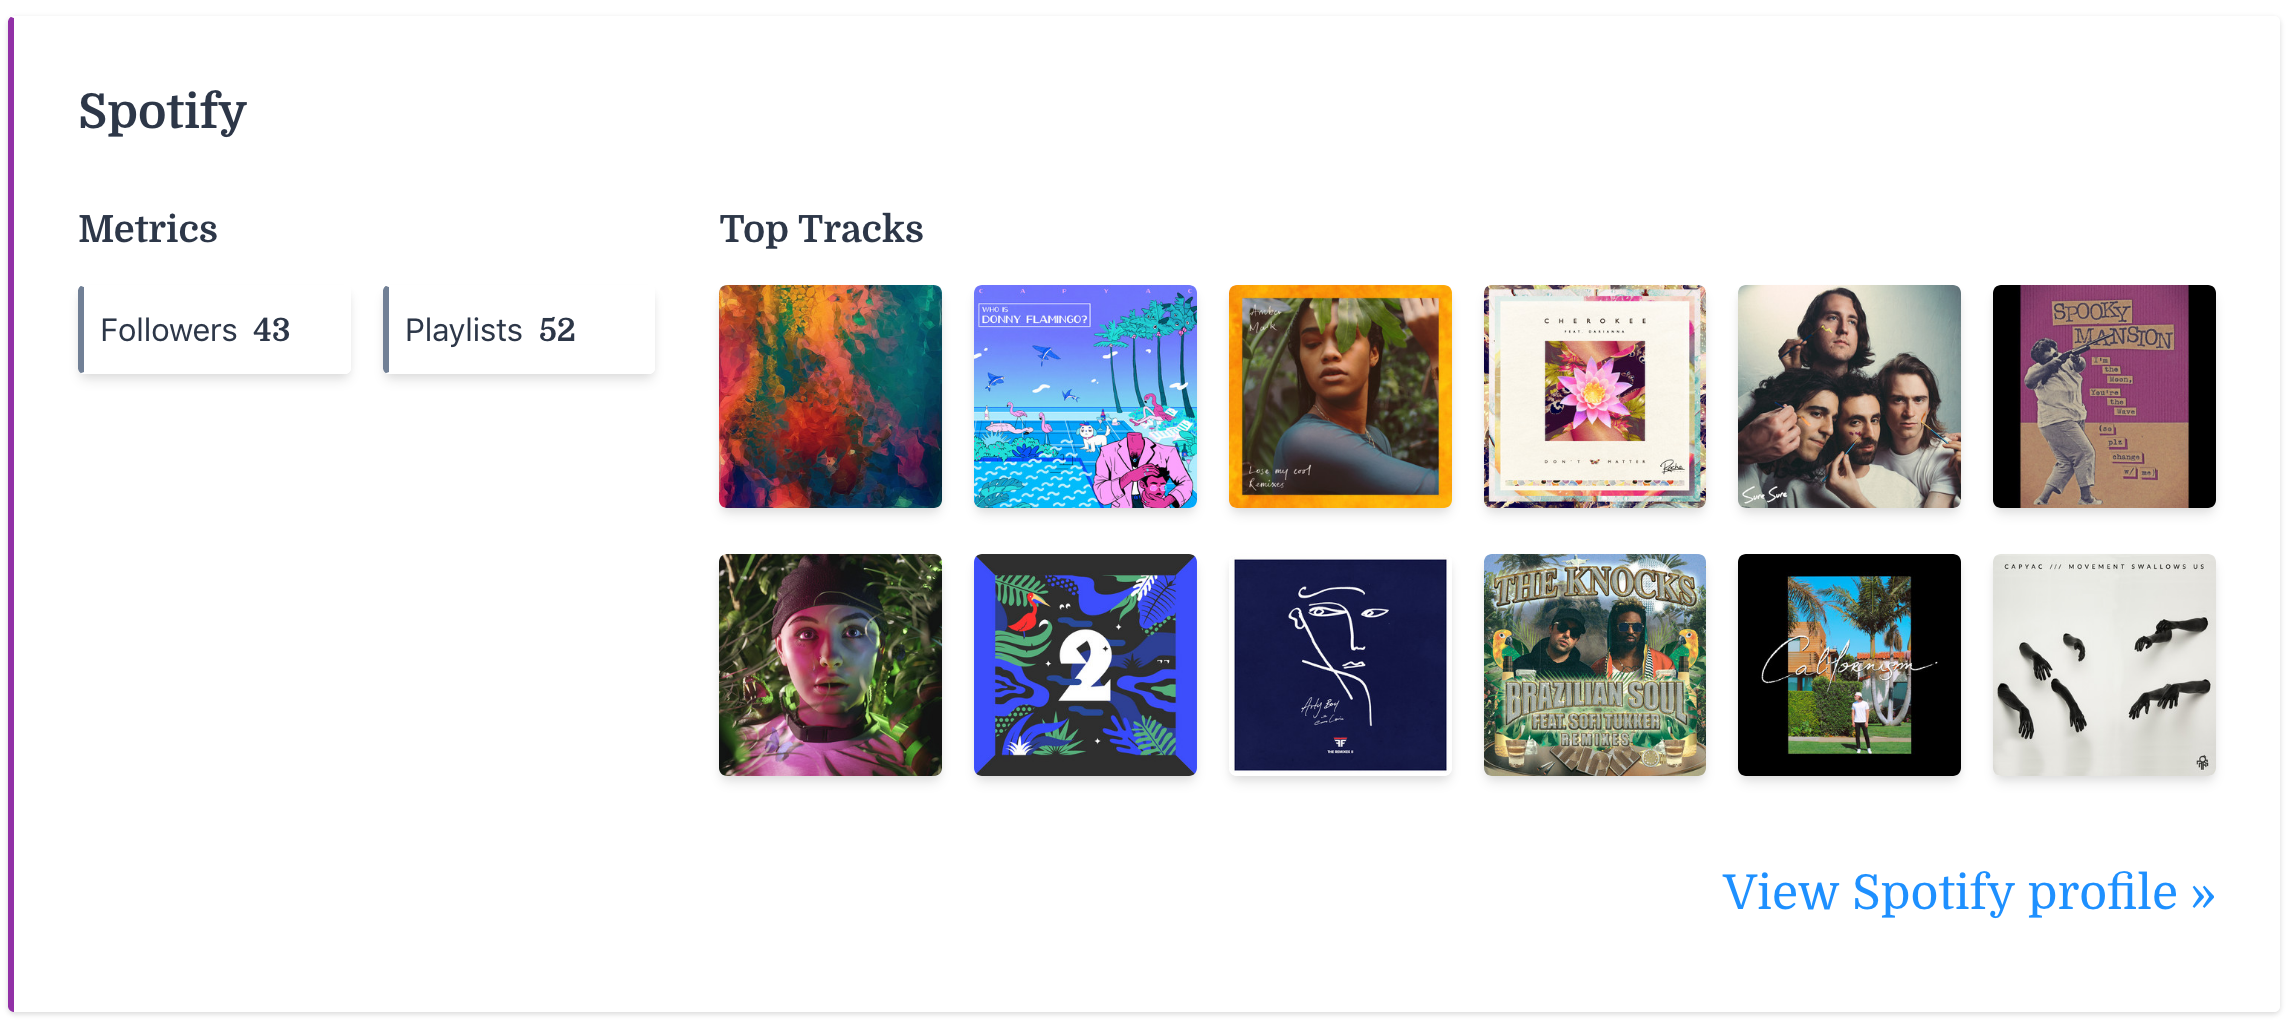
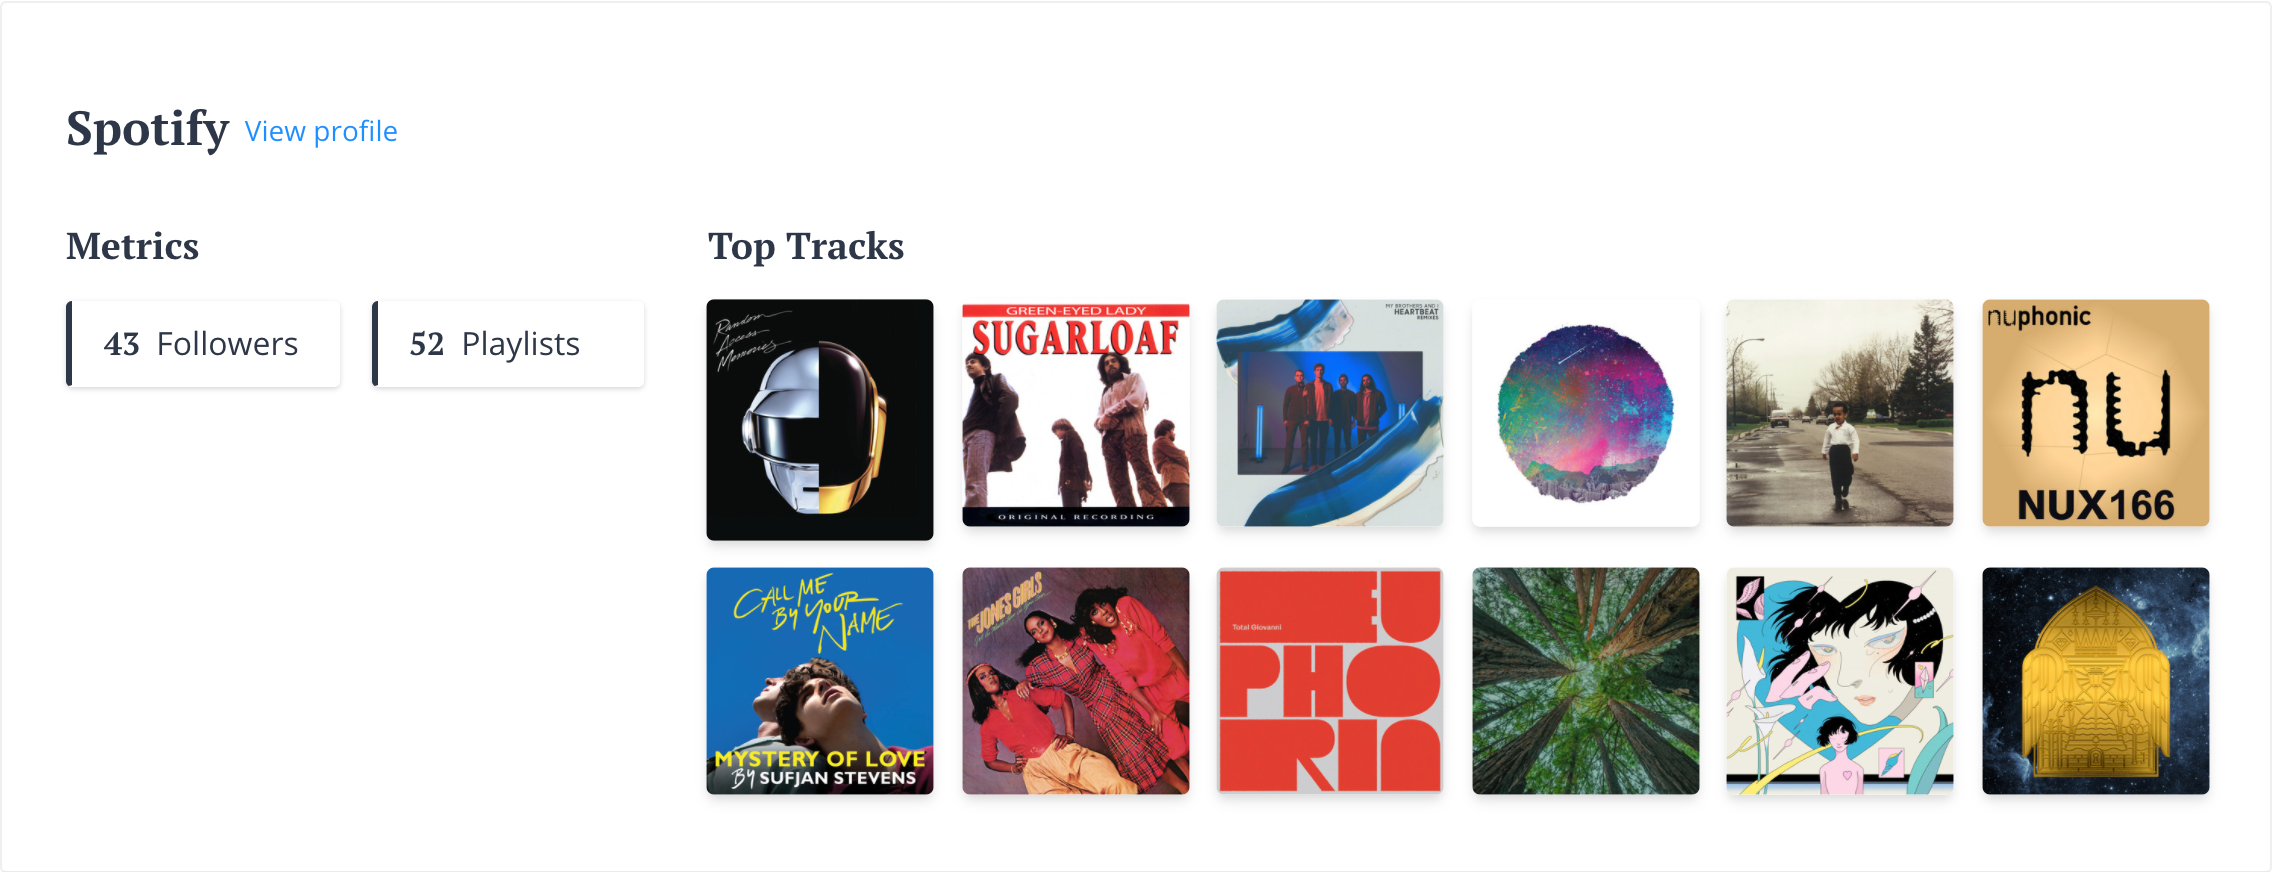
update README and images

diff --git a/theme/README.md b/theme/README.md
@@ -2,7 +2,11 @@
 
 # Private Sphere – a GatsbyJS theme
 
-This is the Gatsby theme used on my personal website and blog, at [www.chrisvogt.me](https://www.chrisvogt.me). This theme includes widgets to display latest activity on GitHub, Goodreads, Instagram, and Spotify, but you will need to provide your own data source for the widgets (REST endpoints). Examples of the expected data structure can be found in the [/theme/\_\_mocks\_\_](https://github.com/chrisvogt/gatsby-theme-private-sphere/tree/master/theme/__mocks__) directory.
+Private Sphere is a Gatsby theme I built for my personal blog and website, [www.chrisvogt.me](https://www.chrisvogt.me). My website and this theme exists so I can publish and share content on my own website, while widgets on the home page showcase my activity across online platforms like GitHub, Goodreads, Instagram, and Spotify.
+
+> **Warning:** This theme is a personal hobby project. This project is unstable and not ready for use on a live site unless you are feeling adventurous.
+
+> **Note:** To use the home page widgets, you must currently build and serve your own data service, and expose that data over REST endpoints. The expected schema for each widget is saved in the [/theme/\_\_mocks\_\_](https://github.com/chrisvogt/gatsby-theme-private-sphere/tree/master/theme/__mocks__) directory.
 
 ## Installation
 
@@ -30,6 +34,30 @@ module.exports = {
 ```
 
 Review the [example site configuration](https://github.com/chrisvogt/gatsby-theme-private-sphere/tree/master/example/gatsby-config.js) for an example of available site metadata fields.
+
+## Screenshots
+
+#### Widgets
+
+###### Blog
+
+![Screenshot: Blog](https://raw.githubusercontent.com/chrisvogt/gatsby-theme-private-sphere/master/theme/assets/widget-blog.png)
+
+###### Instagram
+
+![Screenshot: Instagram](https://raw.githubusercontent.com/chrisvogt/gatsby-theme-private-sphere/master/theme/assets/widget-instagram.png)
+
+###### GitHub
+
+![Screenshot: GitHub](https://raw.githubusercontent.com/chrisvogt/gatsby-theme-private-sphere/master/theme/assets/widget-github.png)
+
+###### Goodreads
+
+![Screenshot: Goodreads](https://raw.githubusercontent.com/chrisvogt/gatsby-theme-private-sphere/master/theme/assets/widget-goodreads.png)
+
+###### Spotify
+
+![Screenshot: Spotify](https://raw.githubusercontent.com/chrisvogt/gatsby-theme-private-sphere/master/theme/assets/widget-spotify.png)
 
 ## Copyright & License
 

diff --git a/README.md b/README.md
@@ -2,7 +2,7 @@
 
 # Private Sphere – a GatsbyJS theme
 
-Private Sphere is the Gatsby theme for my personal blog and website, [www.chrisvogt.me](https://www.chrisvogt.me). It is a platform for me to publish feeds of my online activity, links to my social profiles, photography galleries that I create, and blog posts about my creative and coding endeavors.
+Private Sphere is the Gatsby theme for my personal blog and website, [www.chrisvogt.me](https://www.chrisvogt.me). My website is a personal space where I share an overview of my online activity, links to my social profiles, photo galleries, and blog posts about my creative and coding endeavors.
 
 ## Widgets
 
